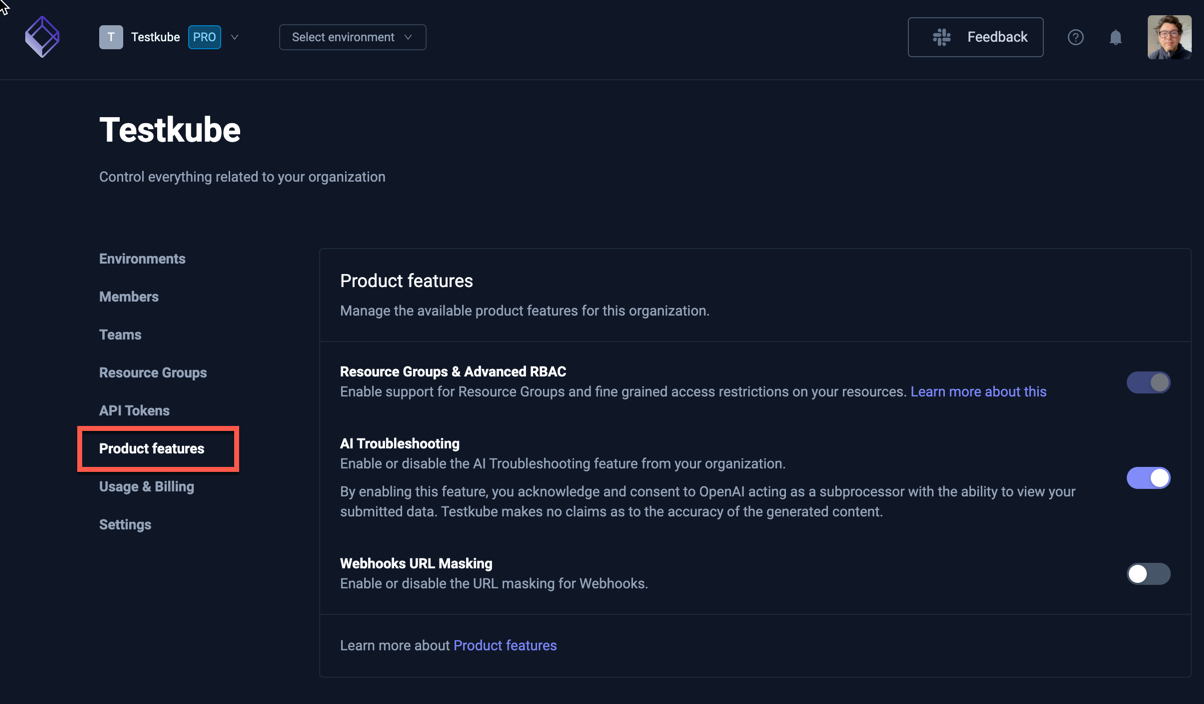
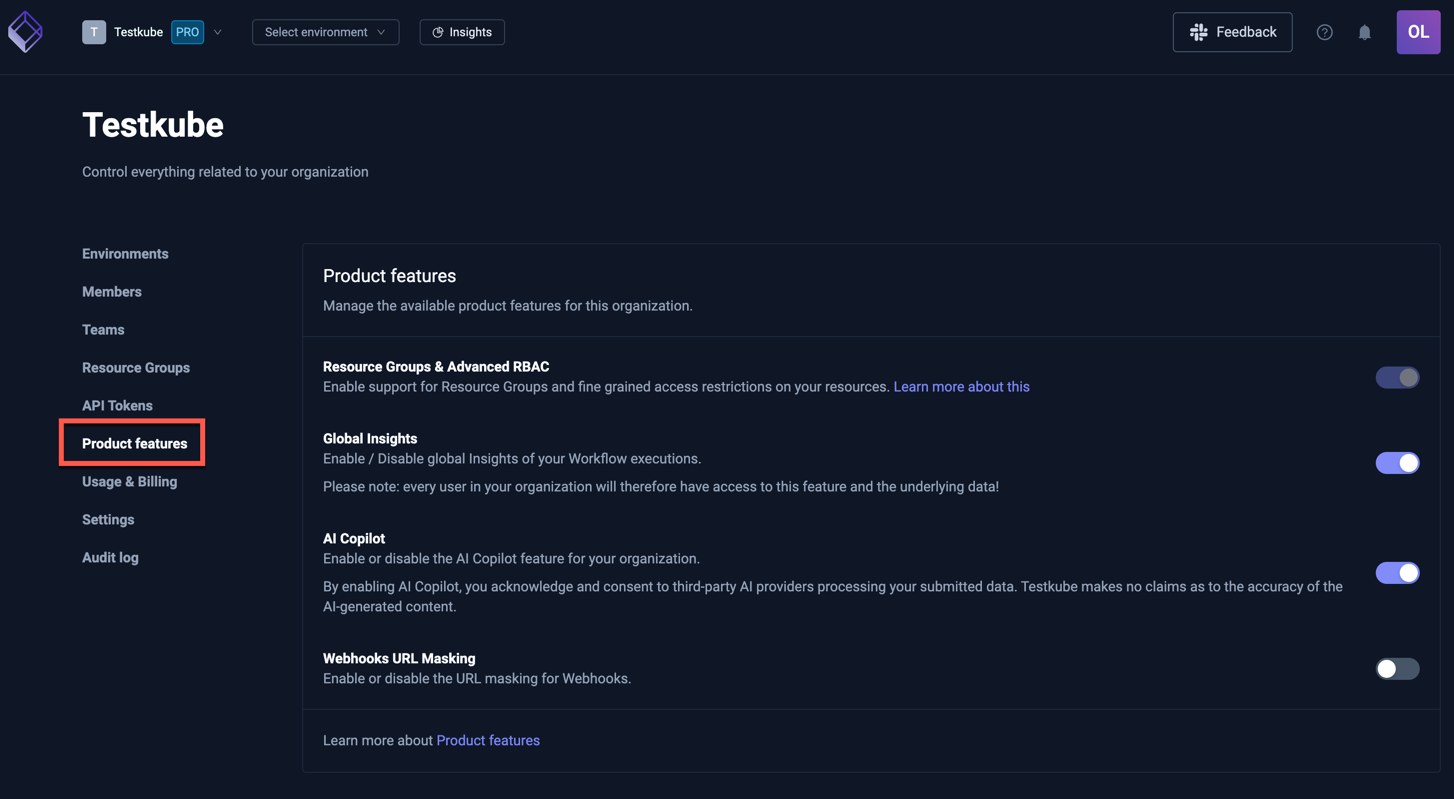
updated product-features docs

diff --git a/docs/testkube-pro/articles/organization-management.md b/docs/testkube-pro/articles/organization-management.md
@@ -95,9 +95,10 @@ for more details on how to create and use API Tokens.
 
 This tab allows you to configure Organization-level Product Features:
 
-- **Resource Groups & Advanced RBAC** - not toggleable, this just indicates if [Resource Groups](/articles/resource-groups) functionality is available (included with SSO).
-- **AI Troubleshooting** - available for legacy Tests only - [Read More](/testkube-pro/articles/AI-test-insights).
-- **Webhooks URL Masking** - [Read More](/articles/webhooks#url-masking)
+- **Resource Groups & Advanced RBAC** - Not toggleable, this just indicates if [Resource Groups](/articles/resource-groups) functionality is available (included with SSO).
+- **Global Insights** - Toggle Global Insights of your Workflow executions - [Read More](/articles/test-insights).
+- **AI Copilot** - Toggle the AI Copilot feature for your organization [Read More](/articles/copilot-overview).
+- **Webhooks URL Masking** - Toggle Webhooks URL masking - [Read More](/articles/webhooks#url-masking).
 
 ![Organization Product Features](../../img/organization-product-features.png)
 

diff --git a/docs/articles/copilot-enable.md b/docs/articles/copilot-enable.md
@@ -2,6 +2,11 @@
 
 This section explains how to enable or activate the Copilot feature for both Cloud and On-Prem installations of Testkube.
 
+:::info
+The Testkube Copilot is _always_ disabled by default for new organisations.
+:::
+
+
 ## How to Enable Copilot
 
 The Copilot feature must be enabled by the **Owner** of the organization or an **Admin**.

diff --git a/docs/articles/test-triggers.md b/docs/articles/test-triggers.md
@@ -51,6 +51,10 @@ selector:
   namespace: Kubernetes object namespace (default is **testkube**)
 ```
 
+:::note
+The `namespace` property is only supported for resourceSelectors, and not for testSelectors.
+:::
+
 #### Label Selector
 
 Label selectors are used when we want to select a group of resources in a specific namespace.
